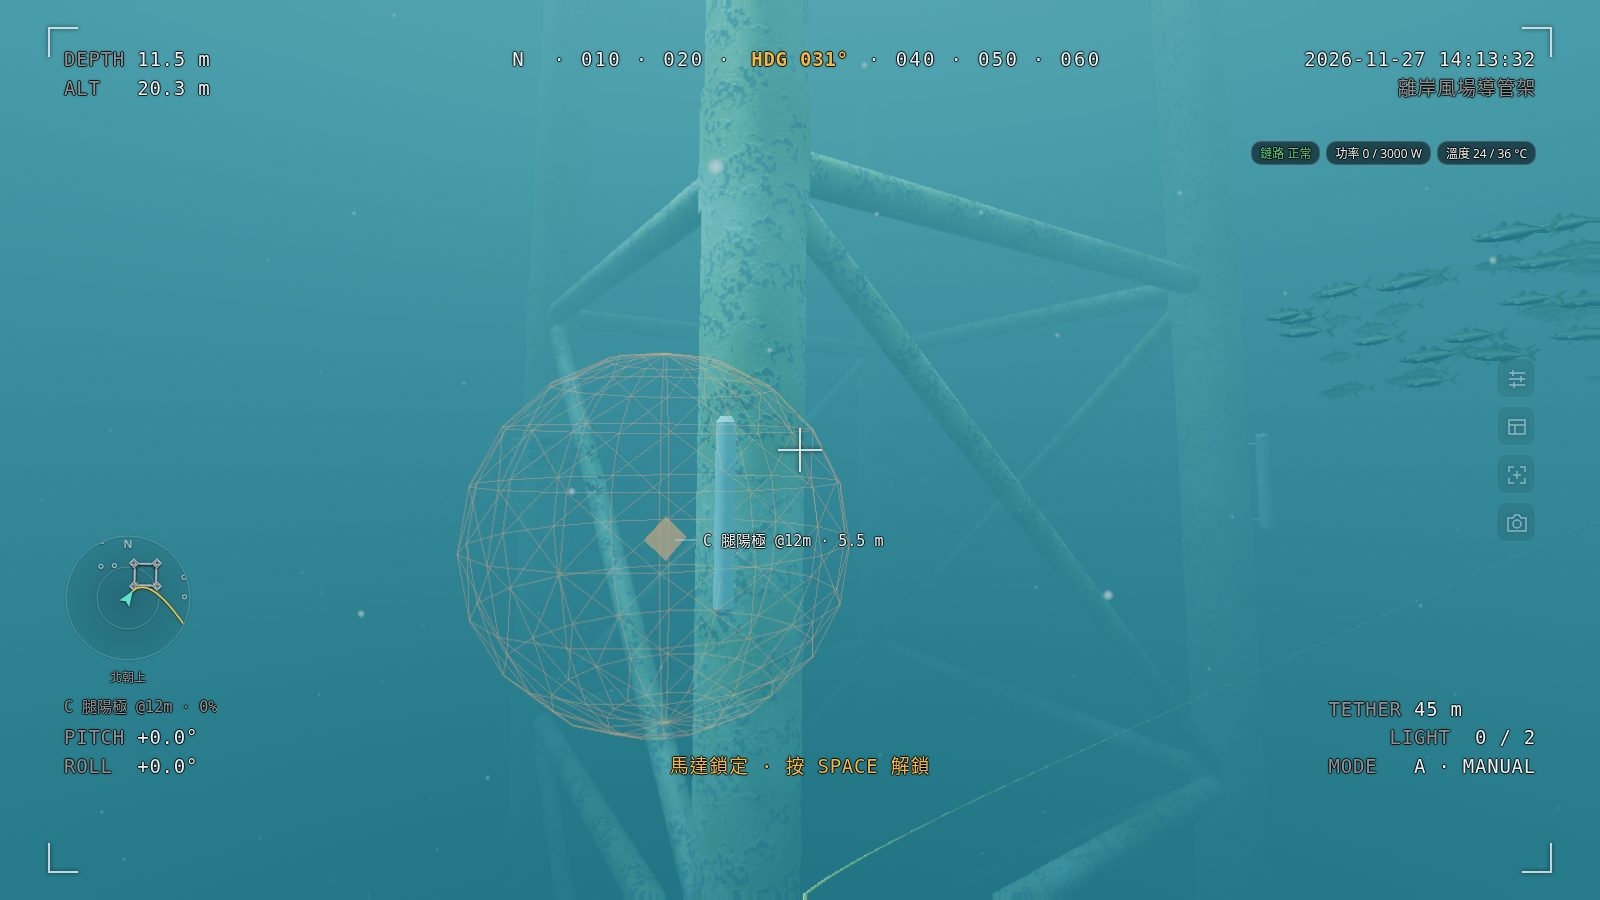
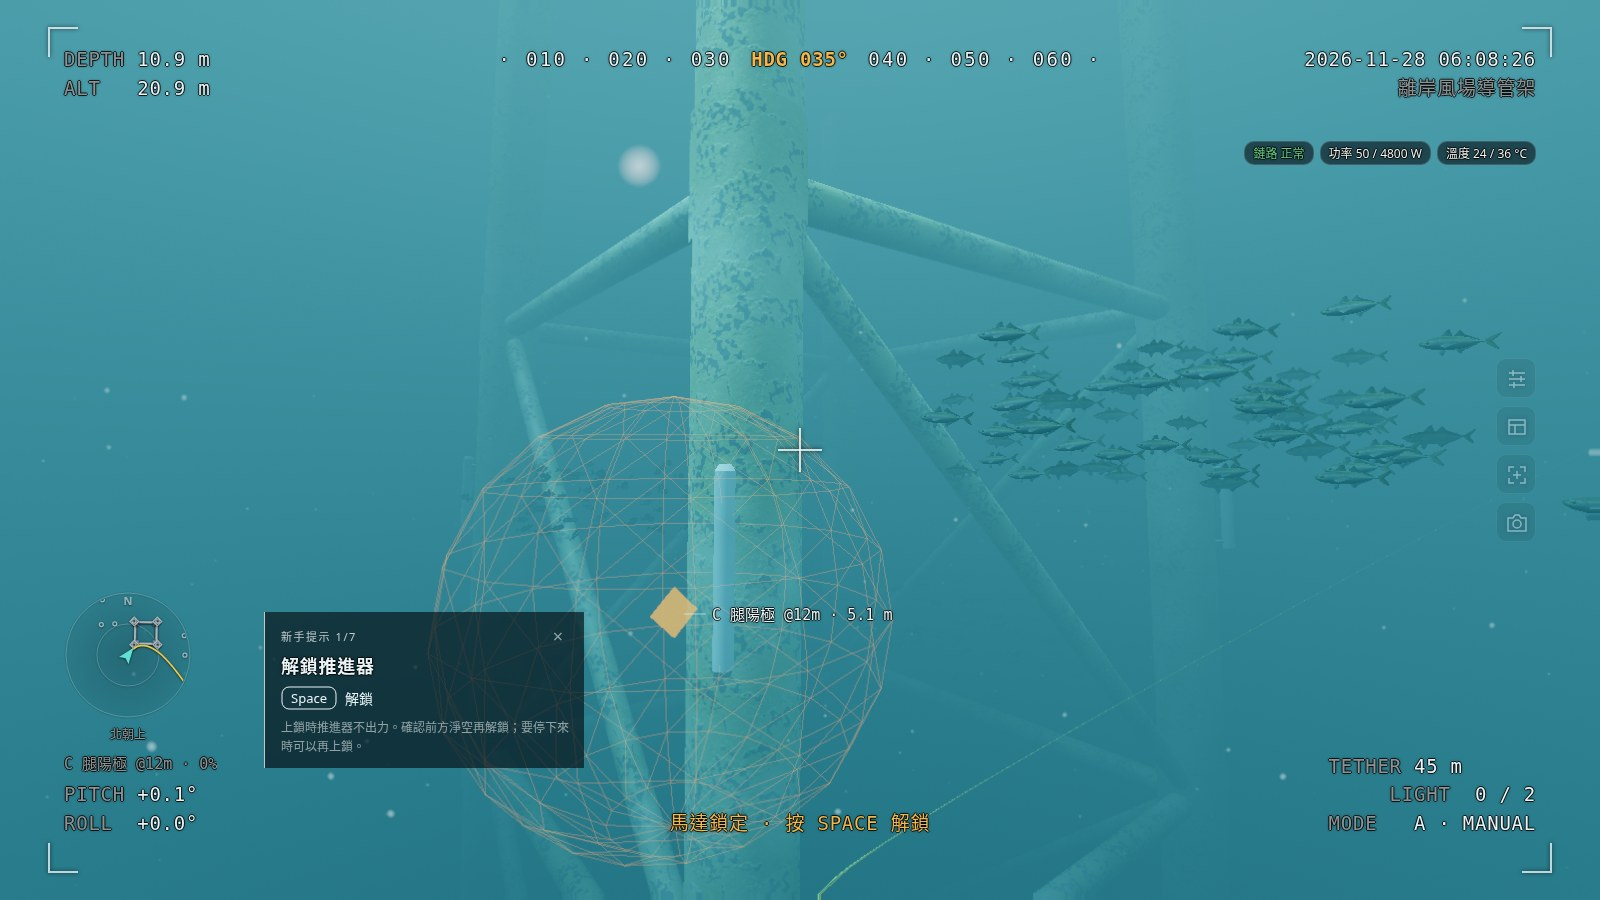
Constrain mission launches and verify the live twelve-second underwater look

diff --git a/simulator/viewer/fx/water_model.js b/simulator/viewer/fx/water_model.js
@@ -49,20 +49,28 @@ export function waterCoefficients(visibility, silt = 0, type = null) {
   const yellow = WATER_TYPES[type] ?? 0;
   const green = VISIBILITY_CONTRAST / range;
   const rest = Math.max(0.01, green - PURE_WATER_ABSORPTION[1] - yellow * YELLOW_SUBSTANCE_SPECTRUM[1]);
-  // In turbid shelf water suspended mineral particles account for most of the beam loss.
-  const scatterShare = type === 'shelf' ? 0.94 : SCATTER_SHARE;
-  const b = scatterShare * rest;
+  // Shelf haze includes suspended mineral grains. Their grey absorption can grow with
+  // turbidity without treating all additional extinction as blue-absorbing organic matter.
+  const shelf = type === 'shelf';
+  const b = (shelf ? 0.92 : SCATTER_SHARE) * rest;
+  const particleAbsorption = rest - b;
+  const colouredAbsorption = shelf ? Math.min(0.025, particleAbsorption) : particleAbsorption;
+  // A turbid shelf station measures local horizontal contrast. For downwelling light
+  // approximate the clearer overlying column with at most 0.5/m non-water extinction.
+  const columnFraction = shelf ? Math.min(1, 0.5 / rest) : 1;
   const a = [];
   const c = [];
   const kd = [];
   for (let i = 0; i < 3; i++) {
     const spectrum = PARTICLE_ABSORPTION_SPECTRUM[i] + cloud * SILT_ABSORPTION_SPECTRUM[i];
-    a[i] = PURE_WATER_ABSORPTION[i] + yellow * YELLOW_SUBSTANCE_SPECTRUM[i] + (1 - scatterShare) * rest * spectrum;
+    a[i] = PURE_WATER_ABSORPTION[i] + yellow * YELLOW_SUBSTANCE_SPECTRUM[i]
+      + particleAbsorption + colouredAbsorption * (spectrum - 1);
     c[i] = a[i] + b;
     // Diffuse light is mostly absorbed on the way down; only a little is scattered out of the beam.
     // Lee et al. (2005), with a 20 degree sun zenith and Petzold bb/b = 0.0183.
-    const backscatter = 0.0183 * b;
-    kd[i] = 1.1 * a[i] + 4.18 * (1 - 0.52 * Math.exp(-10.8 * a[i])) * backscatter;
+    const absorption = PURE_WATER_ABSORPTION[i] + columnFraction * (a[i] - PURE_WATER_ABSORPTION[i]);
+    const backscatter = 0.0183 * b * columnFraction;
+    kd[i] = 1.1 * absorption + 4.18 * (1 - 0.52 * Math.exp(-10.8 * absorption)) * backscatter;
   }
   return {c, b, a, kd};
 }

diff --git a/simulator/viewer/fx/pipeline.js b/simulator/viewer/fx/pipeline.js
@@ -23,12 +23,12 @@ import { legacyWaterLook } from '../underwater_lighting.js';
 import { renderQualityState } from '../render_quality.js';
 
 // The unlit camera keeps some of the scene's change in brightness (partial AE)
-// and can open further once less than 1% of surface green daylight remains.
+// with a finite low-light gain ceiling (twice the lamp setting).
 const ambientMetering = {
   ...EXPOSURE,
   compensation: 0.82,
   reference: EXPOSURE.reference / 2,
-  maximum: EXPOSURE.maximum * 32,
+  maximum: EXPOSURE.maximum * 2,
   balance: 1
 };
 const pipelines = new WeakMap();
@@ -89,9 +89,6 @@ function renderOptics(state, original, scene, camera) {
   if (!state.composer) buildComposer(state, renderer, scene, camera);
   // Above water the daylight camera model (fx/daylight.js) replaces the underwater metering.
   const daylight = camera.position.y > 0 ? scene.userData.daylightMetering : null;
-  // Fraction of green downwelling irradiance relative to the surface, from Beer–Lambert.
-  const greenLight = Math.exp(water.kd[1] * Math.min(camera.position.y, 0));
-  ambientMetering.compensation = 1 - 0.18 * THREE.MathUtils.smoothstep(greenLight, 0.001, 0.01);
   state.exposurePass.metering = camera.position.y > 0 ? daylight : (lamps.length ? null : ambientMetering);
   state.gradePass.enabled = !!daylight;
   resizeComposer(state, renderer);

diff --git a/simulator/viewer/spool_station.js b/simulator/viewer/spool_station.js
@@ -12,7 +12,7 @@
 //   each frame: station.update(dt, introBoatShown, camera)   // camera: hide it while the water hides it
 //   station.labelPosition(world)             // where the "spool" label sits: the boat's stern
 import * as THREE from 'three';
-import {mergeGeometries} from 'three/addons/utils/BufferGeometryUtils.js';
+import {deinterleaveGeometry, mergeGeometries} from 'three/addons/utils/BufferGeometryUtils.js';
 import {assetTextureTier} from './render_quality.js';
 import {Humanoid} from './humanoid.js';
 import {placeWorkBoat} from './deploy_intro.js';
@@ -68,8 +68,11 @@ function batchFarDeck(level) {
   const batches = [];
   for (const [material, meshes] of groups) {
     if (meshes.length < 2) continue;
-    const parts = meshes.map(mesh => mesh.geometry.clone()
-      .applyMatrix4(new THREE.Matrix4().multiplyMatrices(inverse, mesh.matrixWorld)));
+    const parts = meshes.map(function deckPart(mesh) {
+      const geometry = mesh.geometry.clone();
+      deinterleaveGeometry(geometry);
+      return geometry.applyMatrix4(new THREE.Matrix4().multiplyMatrices(inverse, mesh.matrixWorld));
+    });
     const merged = mergeGeometries(parts);
     for (const part of parts) part.dispose();
     if (!merged) continue;

diff --git a/simulator/viewer/fx/water_optics.js b/simulator/viewer/fx/water_optics.js
@@ -40,7 +40,7 @@ export const DAYLIGHT_PHASE = 0.015;
 // docs/design/underwater-look. Green is the reference band for visibility.
 const DAYLIGHT_SCATTER = Object.freeze({
   harbour: [0.58, 1, 0.48],
-  shelf: [0.34, 1, 0.68],
+  shelf: [0.38, 0.46, 1],
   oceanic: [0.18, 0.50, 1],
   fresh_clear: [0.42, 0.90, 1],
   coastal: [0.44, 0.93, 0.91]
@@ -300,7 +300,7 @@ export function updateWaterOptics(scene, { beauty = false, camera = null } = {})
   waterUniforms.uWaterB.value.fromArray(water.b);
   waterUniforms.uWaterSun.value.set(SURFACE_DAYLIGHT.r, SURFACE_DAYLIGHT.g, SURFACE_DAYLIGHT.b)
     .multiplyScalar(DAYLIGHT_PHASE);
-  const spectrum = DAYLIGHT_SCATTER[scene.userData.scatterType] || DAYLIGHT_SCATTER.shelf;
+  const spectrum = DAYLIGHT_SCATTER[scene.userData.waterType] || DAYLIGHT_SCATTER.shelf;
   waterUniforms.uDayScatter.value.fromArray(spectrum).multiply(waterUniforms.uWaterSun.value).multiplyScalar(0.5);
   waterUniforms.uWaterTime.value = performance.now() / 1000;
   waterUniforms.uWaterBeauty.value = beauty ? 1 : 0;

diff --git a/simulator/viewer/app.js b/simulator/viewer/app.js
@@ -1004,7 +1004,7 @@ function updateUI() {
   const bn = $('banner');
   if (sc.failed) { bn.className = 'banner fail'; bn.innerHTML = `任務失敗<small>${esc(sc.failed)}</small>`; bn.hidden = false; }
   else if (t.broken) { bn.className = 'banner fail'; bn.innerHTML = '纜線斷裂<small>ROV 失去連線，請重置情境</small>'; bn.hidden = false; }
-  else if (sc.finished) { bn.className = 'banner win'; bn.innerHTML = `任務完成 · ${sc.score} 分<small>用時 ${fmtT(sc.elapsed)}，扣分 ${sc.penalty_total || 0}</small>`; bn.hidden = false; }
+  else if (sc.finished && objs.length) { bn.className = 'banner win'; bn.innerHTML = `任務完成 · ${sc.score} 分<small>用時 ${fmtT(sc.elapsed)}，扣分 ${sc.penalty_total || 0}</small>`; bn.hidden = false; }
   else if (t.warn) { bn.className = 'banner warn'; bn.innerHTML = `纜線張力 ${Math.round(t.tension_max || 0)} N<small>減少拉扯、檢查纏繞</small>`; bn.hidden = false; }
   else bn.hidden = true;
   drawProfile();

diff --git a/simulator/viewer/fx/camera_output.js b/simulator/viewer/fx/camera_output.js
@@ -71,6 +71,10 @@ const FRAGMENT = /* glsl */ `
       c = texture2D(tDiffuse, vUv);
       c.rgb = expose(c.rgb, gain);
     }
+    // At the top stop of low-light gain, suppress noisy chroma while preserving luminance.
+    float chromaLoss = 0.55 * smoothstep(log(400.0), log(800.0), logExposure);
+    float luma = dot(c.rgb, vec3(0.2126, 0.7152, 0.0722));
+    c.rgb = mix(c.rgb, vec3(luma), chromaLoss);
     // fx/pipeline.js beautify finish: a gentle vignette on the exposed linear image.
     float edge = smoothstep(0.25, 0.8, length(vUv - 0.5));
     c.rgb *= 1.0 - uVignette * 0.28 * edge;

diff --git a/simulator/viewer/fx/silt.js b/simulator/viewer/fx/silt.js
@@ -148,7 +148,6 @@ export class SiltRenderer {
     this.visibilityM = world?.scenario?.visibility_m || 12;
     this.seabed = world?.seabed_depth ?? 30;
     this.waterType = world?.scenario?.water_type ?? null;
-    scene.userData.scatterType = world?.scenario?.key === 'open_water' ? 'oceanic' : this.waterType;
     if (rov) {
       this._lamp.set(0, 0, 0.36).applyQuaternion(rov.quaternion).add(rov.position);
       this._lampDir.set(0, 0, 1).applyQuaternion(rov.quaternion);

diff --git a/simulator/tools/browser_spawn_looks.py b/simulator/tools/browser_spawn_looks.py
@@ -1,49 +1,84 @@
-"""Photograph the unflown scenario start in the normal onboard viewer.
-
-Run with the simulator's Python package on PYTHONPATH and a running viewer at
-ROV_HTTP_PORT. ROV_LOOKS_TAG and ROV_LOOKS_OUT select the comparison revision.
-"""
+"""Photograph live, undriven mission rooms twelve seconds after the first onboard state."""
 import json
 import os
+from functools import partial
 from pathlib import Path
+from threading import Thread
+from uuid import uuid4
 
 from playwright.sync_api import sync_playwright
+from websockets.exceptions import ConnectionClosed
+from websockets.sync.client import connect
+from websockets.sync.server import serve
 
-from qysim.engine import Simulator
-from qysim.server import _json_default
-
-import browser_scene_looks as looks
-from _browser import launch
+from _browser import http_base, launch, timeout, ws_base
 
 SCENES = ('cold_open_jacket', 'harbor_inspection', 'hull_inspection', 'aquaculture_pen',
           'open_water', 'wreck_survey', 'tutorial_pool')
+OUT = Path(__file__).resolve().parents[2] / 'docs/design/scene-look-v1'
 
 
-def spawn_clip(key):
-    sim = Simulator(key, 42, model_id='falcon')
-    state = sim.viewer_state()
-    state['rc']['right_switch'] = 0
-    frames = [dict(state, t=i * 0.5) for i in range(3)]
-    clip = dict(key=key, title=key, world=sim.world_description(), frames=frames, script=[])
-    return json.loads(json.dumps(dict(format=1, hz=2, clips=[clip]), default=_json_default))
+def forward_commands(viewer, host):
+    try:
+        for message in viewer:
+            host.send(message)
+    except ConnectionClosed:
+        pass
+    finally:
+        host.close()
+
+
+def hold_frame(viewer, key):
+    """Forward the real host stream through the first snapshot at 12 s, then hold the shutter."""
+    with connect(ws_base(), max_size=None) as host:
+        commands = Thread(target=forward_commands, args=(viewer, host), daemon=True)
+        commands.start()
+        selected = False
+        held = False
+        for message in host:
+            if held:
+                continue
+            packet = json.loads(message)
+            if packet['type'] == 'world':
+                selected = packet['scenario']['key'] == key and packet['scenario']['seed'] == 42
+            viewer.send(message)
+            held = selected and packet['type'] == 'state' and packet['t'] >= 12
 
 
 def main():
-    looks.OUT = Path(os.getenv('ROV_LOOKS_OUT') or Path(__file__).resolve().parents[2] / 'docs/design/scene-look-v1')
-    looks.OUT.mkdir(exist_ok=True, parents=True)
+    tag = os.getenv('ROV_LOOKS_TAG', 'after')
+    selected = set(filter(None, os.getenv('ROV_LOOKS_ONLY', '').split(',')))
     with sync_playwright() as playwright:
         browser = launch(playwright, headless=True)
         for key in SCENES:
+            if selected and key not in selected:
+                continue
             page = browser.new_page(viewport={'width': 1600, 'height': 900}, device_scale_factor=1)
-            errors = []
-            page.on('pageerror', lambda error: errors.append(str(error)))
-            ready = None
-            if key == 'wreck_survey':
-                ready = "window.__viewer.scene.getObjectByName('WreckChenjiaoLOD')?.levels.length === 3"
-            result = looks.capture(page, looks.REAL, f'{key}-{looks.TAG}', spawn_clip(key), None, ready=ready)
-            print(key, result, flush=True)
-            assert not errors, errors
-            page.close()
+            shutter = serve(partial(hold_frame, key=key), '127.0.0.1', 0, max_size=None)
+            try:
+                port = shutter.socket.getsockname()[1]
+                Thread(target=shutter.serve_forever, daemon=True).start()
+                room = uuid4().hex[:12]
+                url = (f'{http_base()}/?play=1&nointro&room={room}&scenario={key}&seed=42'
+                       f'&ws=ws://127.0.0.1:{port}&quality=medium&cam=onboard&fidelity=real')
+                page.goto(url, wait_until='domcontentloaded')
+                page.wait_for_function('key => window.__viewer?.W?.scenario?.key === key && !!window.__viewer.S',
+                                       arg=key, timeout=timeout(90000))
+                page.wait_for_function('window.__viewer.S.t >= 12', timeout=timeout(90000))
+                if key == 'open_water':
+                    page.wait_for_function("!!window.__viewer.scene.getObjectByName('spool-station-boat')",
+                                           timeout=timeout(90000))
+                if key == 'wreck_survey':
+                    wreck_ready = "window.__viewer.scene.getObjectByName('WreckChenjiaoLOD')?.levels.length === 3"
+                    page.wait_for_function(wreck_ready, timeout=timeout(90000))
+                state = page.evaluate('() => window.__viewer.S')
+                assert 12 <= state['t'] < 13, state['t']
+                assert state['rc']['right_switch'] == 0
+                page.screenshot(path=str(OUT / f'{key}-{tag}.jpg'), type='jpeg', quality=88, timeout=timeout(90000))
+                print(key, state['t'], state['pos'], state['euler'], flush=True)
+            finally:
+                page.close()
+                shutter.shutdown()
         browser.close()
 
 

diff --git a/simulator/qysim/scenarios.py b/simulator/qysim/scenarios.py
@@ -84,8 +84,6 @@ class Scenario:
 
     # Preserve the seeded benthic layout when moving a launch point horizontally.
     habitat_origin: tuple | None = None
-    # Bearing origin for the optional assisted approach when the launch faces across a hull.
-    approach_origin: tuple | None = None
     start_pitch_deg: float = 0.0
 
     def summary(self) -> dict:
@@ -181,8 +179,9 @@ def open_water() -> Scenario:
     return Scenario(
         "open_water", "開放水域熟悉", "無結構物，微弱洋流。依序通過 4 個檢查點，熟悉搖桿、A/S 模式和定深。",
         seabed_depth=25.0, current=CurrentProfile(0.3, 45, 0.3, 45, 0.1, 45, TI_SHELTERED),
-        start_pos=(-6, 0, 2.8), start_heading_deg=18, start_pitch_deg=12,
-        habitat_origin=(0, 0, 2), tether_length=30.0,
+        water_type="oceanic", start_pos=(0, 0, 2), start_heading_deg=-140,
+        fish_schools=[{"home": (-5, 4, 2.3), "count": 18}, {"home": (-4, -4, 3), "count": 12}],
+        tether_length=30.0,
         objectives=[Objective("checkpoint", f"檢查點 {i + 1}", p, radius=1.5) for i, p in enumerate(pts)]
                    + [Objective("surface", "回到投放點上浮", (-2, 0, 0.5), radius=3.0)])
 
@@ -234,8 +233,8 @@ def hull_inspection() -> Scenario:
     return Scenario(
         "hull_inspection", "船殼底部檢查", "80 m 貨輪吃水 8 m。從船底下穿過沿龍骨檢查，再繞到右舷。纜線可能卡在船底邊緣。",
         seabed_depth=sea, obstacles=hull, current=CurrentProfile(0.6, 0, 0.5, 10, 0.2, 20, TI_SHELTERED),
-        visibility_m=7.0, start_pos=(37, -10.15, 8.2), start_heading_deg=22, start_pitch_deg=17,
-        habitat_origin=(0, 0, 3), approach_origin=(0, 0), spool_pos=(-5, 0, 0), tether_length=70.0,
+        visibility_m=7.0, start_pos=(0, 0, 3),
+        spool_pos=(-5, 0, 0), tether_length=70.0,
         objectives=[Objective("checkpoint", f"船底 {i + 1}", p, radius=1.8) for i, p in enumerate(pts)])
 
 
@@ -264,8 +263,8 @@ def wreck_survey() -> Scenario:
         "wreck_survey", "沉船調查", "水深 30 m、能見度 4 m，繞沉船一圈拍攝四個面。碰到海床會揚起泥沙；注意桅桿。",
         seabed_depth=sea, obstacles=[wreck] + snag_features(wreck) + wreck_debris(25.0, 5.0, sea, yaw_deg=35.0),
         current=CurrentProfile(0.8, 200, 0.6, 210, 0.3, 220, TI_OFFSHORE),
-        visibility_m=4.0, start_pos=(42.87, 21.67, 25.8), start_heading_deg=-86, start_pitch_deg=-35,
-        habitat_origin=(0, 0, 3), approach_origin=(50, 28), spool_pos=(-4, 0, 0), tether_length=80.0,
+        visibility_m=4.0, start_pos=(0, 0, 3), start_heading_deg=11, start_pitch_deg=-22,
+        spool_pos=(-4, 0, 0), tether_length=80.0,
         seabed_type="silt", bnl_height_m=1.5, bnl_mg_l=1.0,      # provisional silted wreck site
         objectives=[Objective("checkpoint", n, p, radius=2.0) for n, p in zip(("艏", "左舷", "艉", "右舷"), pts)])
 
@@ -459,7 +458,7 @@ def harbor_inspection() -> Scenario:
                     fish_schools=[{"home": home, "count": count} for home, count in
                                   [((7, -2, 4), 15), ((14, -7, 6), 12), ((24, -8, 8), 18), ((37, 3, 5), 14)]],
                     current=CurrentProfile(.8, 90, .55, 95, .15, 110, TI_SHELTERED, tide=Tide()),
-                    start_pos=(0.6, -3.1, 2.8), start_heading_deg=61, start_pitch_deg=4,
+                    start_pos=(0.9, -1.8, 5), start_heading_deg=-47, start_pitch_deg=-5,
                     habitat_origin=(0, 0, 3), tether_length=75,
                     objectives=[Objective("inspect", "港樁 A", (18, -10, 8), 1.5, hold_s=6, face_point=(21,-10,8)),
                                 Objective("inspect", "港樁 B", (18, 10, 8), 1.5, hold_s=6, face_point=(21,10,8)),
@@ -479,7 +478,7 @@ def sonar_search() -> Scenario:
 def tutorial_pool() -> Scenario:
     """Calm indoor commissioning pool, using the unchanged vehicle dynamics."""
     return Scenario("tutorial_pool", STRINGS["pool_name"], STRINGS["pool_brief"],
-                    seabed_depth=8, visibility_m=20, start_pos=(7, -6, 5.8), start_heading_deg=-28, start_pitch_deg=-9,
+                    seabed_depth=8, visibility_m=20, start_pos=(2, -1.7, 4.4), start_heading_deg=-28, start_pitch_deg=-9,
                     habitat_origin=(0, 0, 3), tether_length=35, seabed_type="rock",
                     water="fresh", enclosed=True,
                     current=CurrentProfile(0, 0, 0, 0, 0, 0, 0),
@@ -576,7 +575,7 @@ def aquaculture_pen() -> Scenario:
     return Scenario(
         "aquaculture_pen", pen_strings["name"], pen_strings["brief"],
         seabed_depth=25., obstacles=obstacles, visibility_m=8., biome="aquaculture",
-        seabed_type="mud", water_type="shelf", start_pos=(4.8, 0., 1.5), start_heading_deg=46, start_pitch_deg=12,
+        seabed_type="mud", water_type="shelf", start_pos=(4.4, 0., 4.4), start_heading_deg=46, start_pitch_deg=12,
         habitat_origin=(3., 0., 7.),
         spool_pos=(-2., 0., 0.), tether_length=150., time_limit_s=2400.,
         current=CurrentProfile(.8, 90, .5, 95, .3, 100, TI_SHELTERED),

diff --git a/simulator/tests/test_scene_launch.py b/simulator/tests/test_scene_launch.py
@@ -1,0 +1,27 @@
+"""Keep the photographic launch within the original mission and tether envelope."""
+import math
+import unittest
+
+from qysim.scenarios import aquaculture_pen, harbor_inspection, hull_inspection, tutorial_pool, wreck_survey
+
+
+class LaunchLayoutTest(unittest.TestCase):
+    def test_inspections_launch_from_the_original_tether_layout(self):
+        for site, spool, length in ((hull_inspection(), (-5, 0, 0), 70), (wreck_survey(), (-4, 0, 0), 80)):
+            with self.subTest(site=site.key):
+                self.assertEqual(site.start_pos, (0, 0, 3))
+                self.assertEqual(site.spool_pos, spool)
+                self.assertEqual(site.tether_length, length)
+
+    def test_shifted_sites_preserve_mission_and_cable(self):
+        for site, original, spool, cable, points in (
+            (aquaculture_pen(), (3, 0, 7), (-2, 0, 0), 150, [(3, 0, 7), (3, 0, 7), (9, 1, 15)]),
+            (harbor_inspection(), (0, 0, 3), (-3, 0, 0), 75,
+             [(18, -10, 8), (18, 10, 8), (39, 0, 10), (-2, 0, .5)]),
+            (tutorial_pool(), (0, 0, 3), (-3, 0, 0), 35, []),
+        ):
+            with self.subTest(site=site.key):
+                self.assertLessEqual(math.dist(site.start_pos, original), 3)
+                self.assertEqual(site.tether_length, cable)
+                self.assertEqual(site.spool_pos, spool)
+                self.assertEqual([o.point for o in site.objectives], points)

diff --git a/simulator/tests/test_water_type.py b/simulator/tests/test_water_type.py
@@ -8,7 +8,7 @@ class WaterTypeTests(unittest.TestCase):
     def test_biome_defaults(self):
         expected = {"coral_reef": "oceanic", "seagrass_meadow": "coastal", "harbor_inspection": "harbour",
                     "monopile_current": "shelf", "jacket_inspection": "shelf", "korean_castle": "shelf",
-                    "open_water": "shelf", "tutorial_pool": "fresh_clear"}
+                    "open_water": "oceanic", "tutorial_pool": "fresh_clear"}
         for key, water_type in expected.items():
             self.assertEqual(scenarios.build(key).summary()["water_type"], water_type, key)
 

diff --git a/simulator/qysim/start_point.py b/simulator/qysim/start_point.py
@@ -40,7 +40,7 @@ def near_target_pose(sim):
         return None
     goal = np.asarray(objective.point, float)
     face = np.asarray(getattr(objective, "face_point", None) or objective.point, float)
-    origin = np.asarray(scenario.approach_origin or scenario.start_pos, float)
+    origin = np.asarray(scenario.start_pos, float)
     direction = goal[:2] - origin[:2]
     distance = float(np.linalg.norm(direction))
     if distance < 1e-6:
